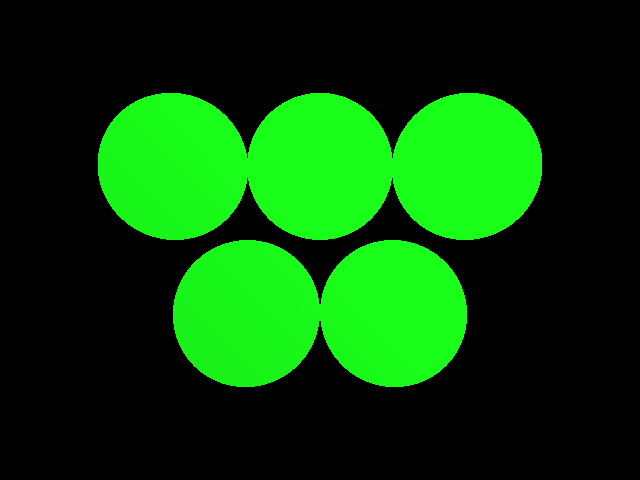
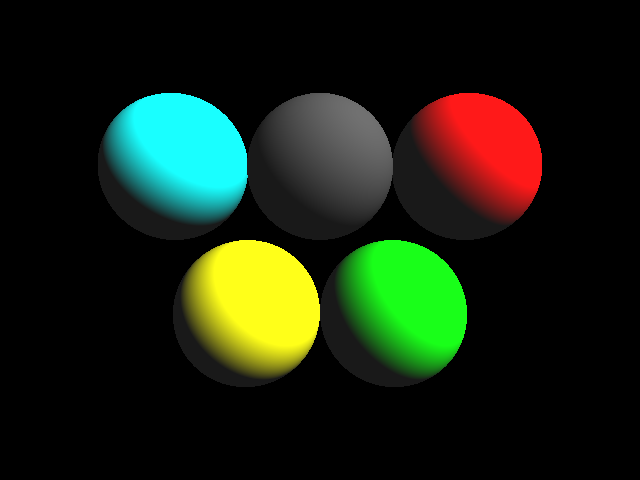
:boom: Ombres

Changed region(s): [[0.1562, 0.1875, 0.8438, 0.8125]]

diff --git a/src/main/java/fr/univartois/sae/raytracing/RayTracing.java b/src/main/java/fr/univartois/sae/raytracing/RayTracing.java
@@ -65,9 +65,12 @@ public class RayTracing {
                 double t = -1;
                 Vector d = new Vector((((u.scalarMultiplication(a)).addition(v.scalarMultiplication(b).getTriplet())).subtraction(w.getTriplet())).scalarMultiplication(1 / (((u.scalarMultiplication(a).addition(v.scalarMultiplication(b).getTriplet()).subtraction(w.getTriplet())).getTriplet()).norm())).getTriplet());
                 Color color = new Color(0.0, 0.0, 0.0);
+                int o =-1;
+                int index =0;
                 for (AObject object : scene.getObjects()) {
                     if (object instanceof Sphere) {
                         // IL VA FALLOIR UTILISER LES FONCTIONS MODELES ICI !!!
+                        double tmp;
                         double t2;
                         double tb = ((lookFrom.subtraction(((Sphere) object).getCoordinate().getTriplet())).scalarMultiplication(2)).scalarProduct(d.getTriplet());
                         double tc = (lookFrom.subtraction(((Sphere) object).getCoordinate().getTriplet())).scalarProduct(lookFrom.subtraction(((Sphere) object).getCoordinate().getTriplet()).getTriplet()) - (Math.pow(((Sphere) object).getRadius(), 2));
@@ -75,25 +78,44 @@ public class RayTracing {
                         if (delta == 0) {
                             t = -tb / 2;
                         } else if (delta > 0) {
-                            t = (-tb + Math.sqrt(delta)) / 2;
+                            tmp = (-tb + Math.sqrt(delta)) / 2;
                             t2 = (-tb - Math.sqrt(delta)) / 2;
                             if (t2 > 0) {
-                                t = t2;
+                                tmp = t2;
                             } else if (t < 0) {
-                                t = -1;
+                                tmp = -1;
+                            }
+                            if ((tmp<=t) || (t==-1)) {
+                                t = tmp;
+                                o=index;
                             }
                         }
+                        index++;
                         if (t >= 0) {
-                            Point p = new Point(lookFrom.addition(d.getTriplet()).scalarMultiplication(t).getTriplet());
-                            color = strategy.modelMethod((Sphere)object, scene.getObjects().indexOf(object), p, scene);
+                            Point p = new Point(lookFrom.addition(d.getTriplet().scalarMultiplication(t)).getTriplet());
+                            color = strategy.modelMethod((Sphere) scene.getObjects().get(o), o, p, scene);
                         }
+
                         // ICI !!!!
                     } else {
                         throw new UnsupportedOperationException();
                     }
-
+//                    if (color.getTriplet().getY()<0.5 && color.getTriplet().getY()!=0.0) {
+//                        System.out.println("r");
+//                    }
+                    colors[i][j] = new Color(color.getTriplet());
                 }
-                colors[i][j] = color;
+
+
+
+
+            }
+        }
+        for(int i=0;i<scene.getWidth();i++){
+            for(int j=0;j<scene.getHeight();j++) {
+                Triplet t = colors[i][j].getTriplet();
+                if ( t.getY()<0.9 && t.getY()!=0.0)
+                    System.out.println(colors[i][j]);
             }
         }
         createImage(colors);

diff --git a/src/main/java/fr/univartois/sae/raytracing/object/Sphere.java b/src/main/java/fr/univartois/sae/raytracing/object/Sphere.java
@@ -2,6 +2,7 @@ package fr.univartois.sae.raytracing.object;
 
 import fr.univartois.sae.raytracing.triplet.Point;
 import fr.univartois.sae.raytracing.triplet.Triplet;
+import fr.univartois.sae.raytracing.triplet.Vector;
 
 
 /**
@@ -44,4 +45,29 @@ public class Sphere extends AObject {
                 ", radius=" + radius +
                 '}';
     }
+
+    @Override
+    public double distance(Point p, Vector d) {
+        return 0;
+    }
+
+//    @Override
+//    public double distance(Point p, Vector d) {
+//        double res = -1;
+//        double t2;
+//        double tb = (p.subtraction(coordinate.getTriplet())).scalarMultiplication(2).scalarProduct(d.getTriplet());
+//        double tc = (p.subtraction(coordinate.getTriplet()).scalarProduct(p.subtraction(coordinate.getTriplet()).getTriplet()))
+//        double delta = Math.pow(tb, 2) - (4 * tc);
+//        if (delta == 0) {
+//            res = -tb / 2;
+//        } else if (delta > 0) {
+//            res = (-tb + Math.sqrt(delta)) / 2;
+//            t2 = (-tb - Math.sqrt(delta)) / 2;
+//            if (t2 > 0) {
+//                res = t2;
+//            } else if (t < 0) {
+//                res = -1;
+//            }
+//        }
+//    }
 }

diff --git a/src/main/java/fr/univartois/sae/raytracing/light/LambertModel.java b/src/main/java/fr/univartois/sae/raytracing/light/LambertModel.java
@@ -49,15 +49,13 @@ public class LambertModel implements IStrategy{
 
         Color cDiffuse = diffuseList.get(idObj);
         color = ((Color)scene.getColors().get("ambient")).addition(color.schurProduct(cDiffuse.getTriplet()).getTriplet());
-        System.out.println(color);
         if (color.getTriplet().getX() > 1)
             color.getTriplet().setX(1);
         if (color.getTriplet().getY() > 1)
             color.getTriplet().setY(1);
         if (color.getTriplet().getZ() > 1)
             color.getTriplet().setZ(1);
+
         return color;
-
-
     }
 }

diff --git a/src/main/java/fr/univartois/sae/raytracing/object/Plane.java b/src/main/java/fr/univartois/sae/raytracing/object/Plane.java
@@ -2,6 +2,7 @@ package fr.univartois.sae.raytracing.object;
 
 import fr.univartois.sae.raytracing.triplet.Point;
 import fr.univartois.sae.raytracing.triplet.Triplet;
+import fr.univartois.sae.raytracing.triplet.Vector;
 
 /**
  * this class represents a plane
@@ -36,5 +37,10 @@ public class Plane extends AObject{
                 "coordinate=" + coordinate +
                 ", normal=" + normal +
                 '}';
+    }
+
+    @Override
+    public double distance(Point p, Vector d) {
+        throw new UnsupportedOperationException();
     }
 }

diff --git a/src/main/java/fr/univartois/sae/raytracing/object/Triangle.java b/src/main/java/fr/univartois/sae/raytracing/object/Triangle.java
@@ -1,6 +1,7 @@
 package fr.univartois.sae.raytracing.object;
 
 import fr.univartois.sae.raytracing.triplet.Point;
+import fr.univartois.sae.raytracing.triplet.Vector;
 
 /**
  * @author nicolas nourry
@@ -41,5 +42,10 @@ public class Triangle extends AObject{
                 ", b=" + b +
                 ", c=" + c +
                 '}';
+    }
+
+    @Override
+    public double distance(Point p, Vector d) {
+        throw new UnsupportedOperationException();
     }
 }

diff --git a/src/main/java/fr/univartois/sae/raytracing/object/AObject.java b/src/main/java/fr/univartois/sae/raytracing/object/AObject.java
@@ -1,9 +1,11 @@
 package fr.univartois.sae.raytracing.object;
 
 import fr.univartois.sae.raytracing.triplet.Point;
+import fr.univartois.sae.raytracing.triplet.Vector;
 
 /**
  *  this class represent an object
  */
 public abstract class AObject {
+    public abstract double distance(Point p, Vector d);
 }
